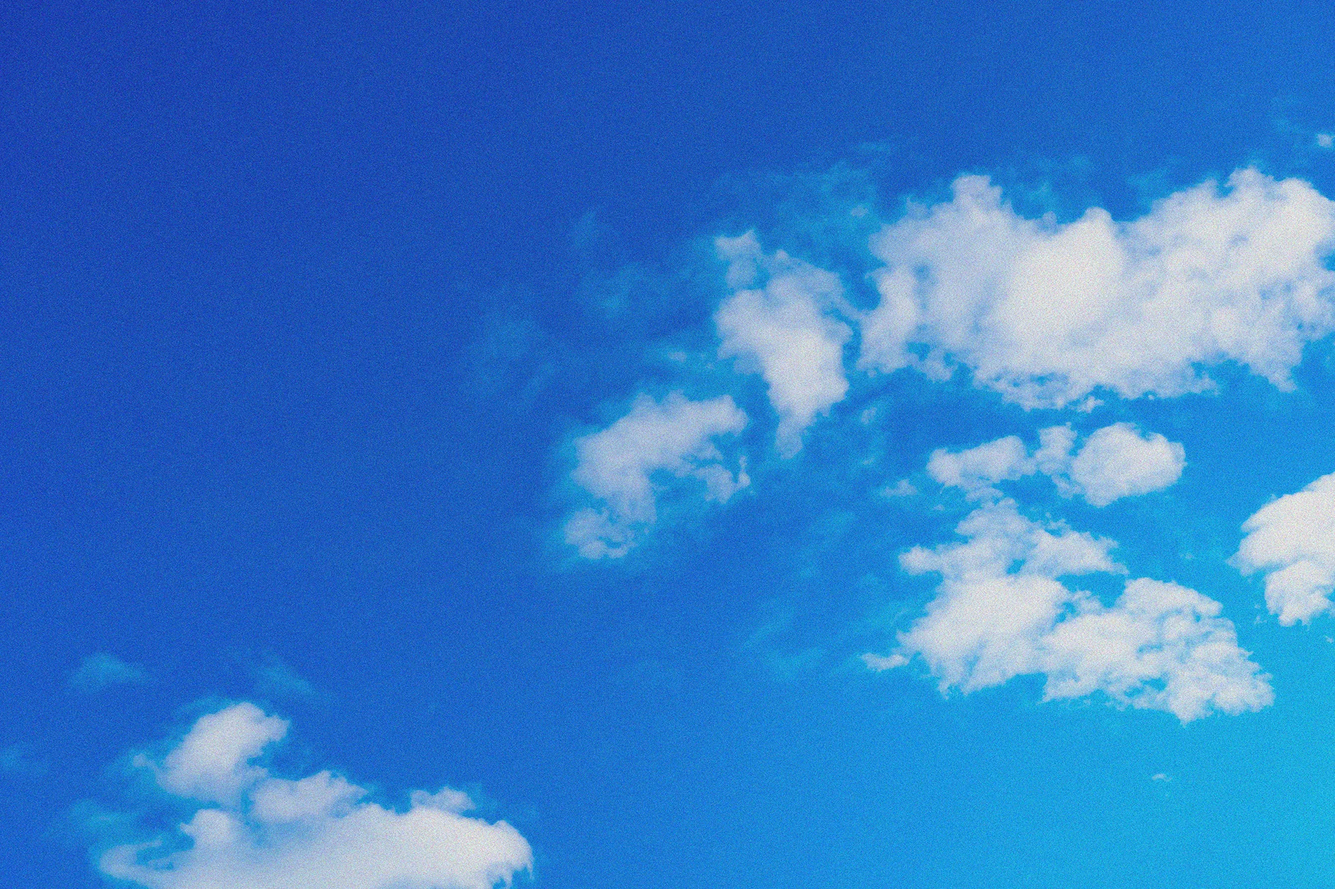
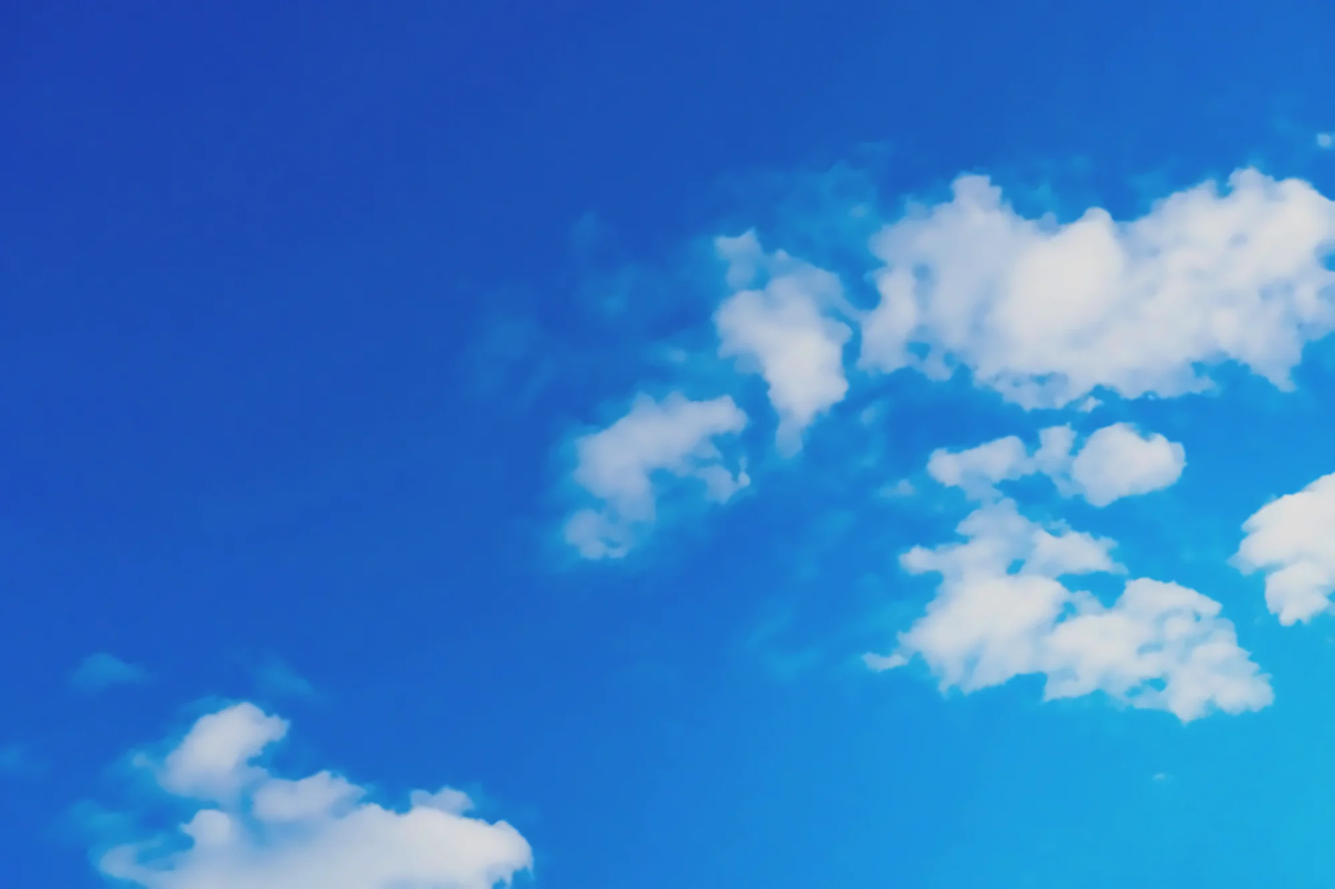
Keep the film grain still while the sky drifts
The grain was baked into sky.webp, so it zoomed and slid with the sky. The sky image is now denoised (edge-preserving, so cloud shapes stay) and a separate 128px grain tile sits on top as a fixed overlay, tuned to about the original grain strength. Applies to both the homepage and the 404 page. sky.webp also drops from 744 KB to 49 KB.

Claude-Session: https://claude.ai/code/session_01Ed8UHnUSECpX4rt9VoGRUD

diff --git a/404.html b/404.html
@@ -40,6 +40,18 @@
       will-change: transform;
     }
 
+    /* Film grain: stays still on top of the moving sky */
+    .grain {
+      position: fixed;
+      inset: 0;
+      z-index: -1;
+      pointer-events: none;
+      background: url("/assets/grain.png") repeat;
+      background-size: 128px 128px;
+      mix-blend-mode: overlay;
+      opacity: 0.32;
+    }
+
     @keyframes drift {
       0%   { transform: translate(-3%, 1%) scale(1); }
       50%  { transform: translate(1%, -1.5%) scale(1.04); }
@@ -148,6 +160,7 @@
 </head>
 <body>
   <div class="sky" aria-hidden="true"></div>
+  <div class="grain" aria-hidden="true"></div>
   <main class="terminal" aria-label="404 — Something's cooking. Under construction.">
     <div class="log" id="log" aria-hidden="true"></div>
     <div class="big" id="big" aria-hidden="true"></div>

diff --git a/index.html b/index.html
@@ -28,6 +28,18 @@
       will-change: transform;
     }
 
+    /* Film grain: stays still on top of the moving sky */
+    .grain {
+      position: fixed;
+      inset: 0;
+      z-index: -1;
+      pointer-events: none;
+      background: url("/assets/grain.png") repeat;
+      background-size: 128px 128px;
+      mix-blend-mode: overlay;
+      opacity: 0.32;
+    }
+
     @keyframes drift {
       0%   { transform: translate(-3%, 1%) scale(1); }
       50%  { transform: translate(1%, -1.5%) scale(1.04); }
@@ -103,6 +115,7 @@
 </head>
 <body>
   <div class="sky" aria-hidden="true"></div>
+  <div class="grain" aria-hidden="true"></div>
   <canvas id="scene" aria-hidden="true"></canvas>
 
   <main>
